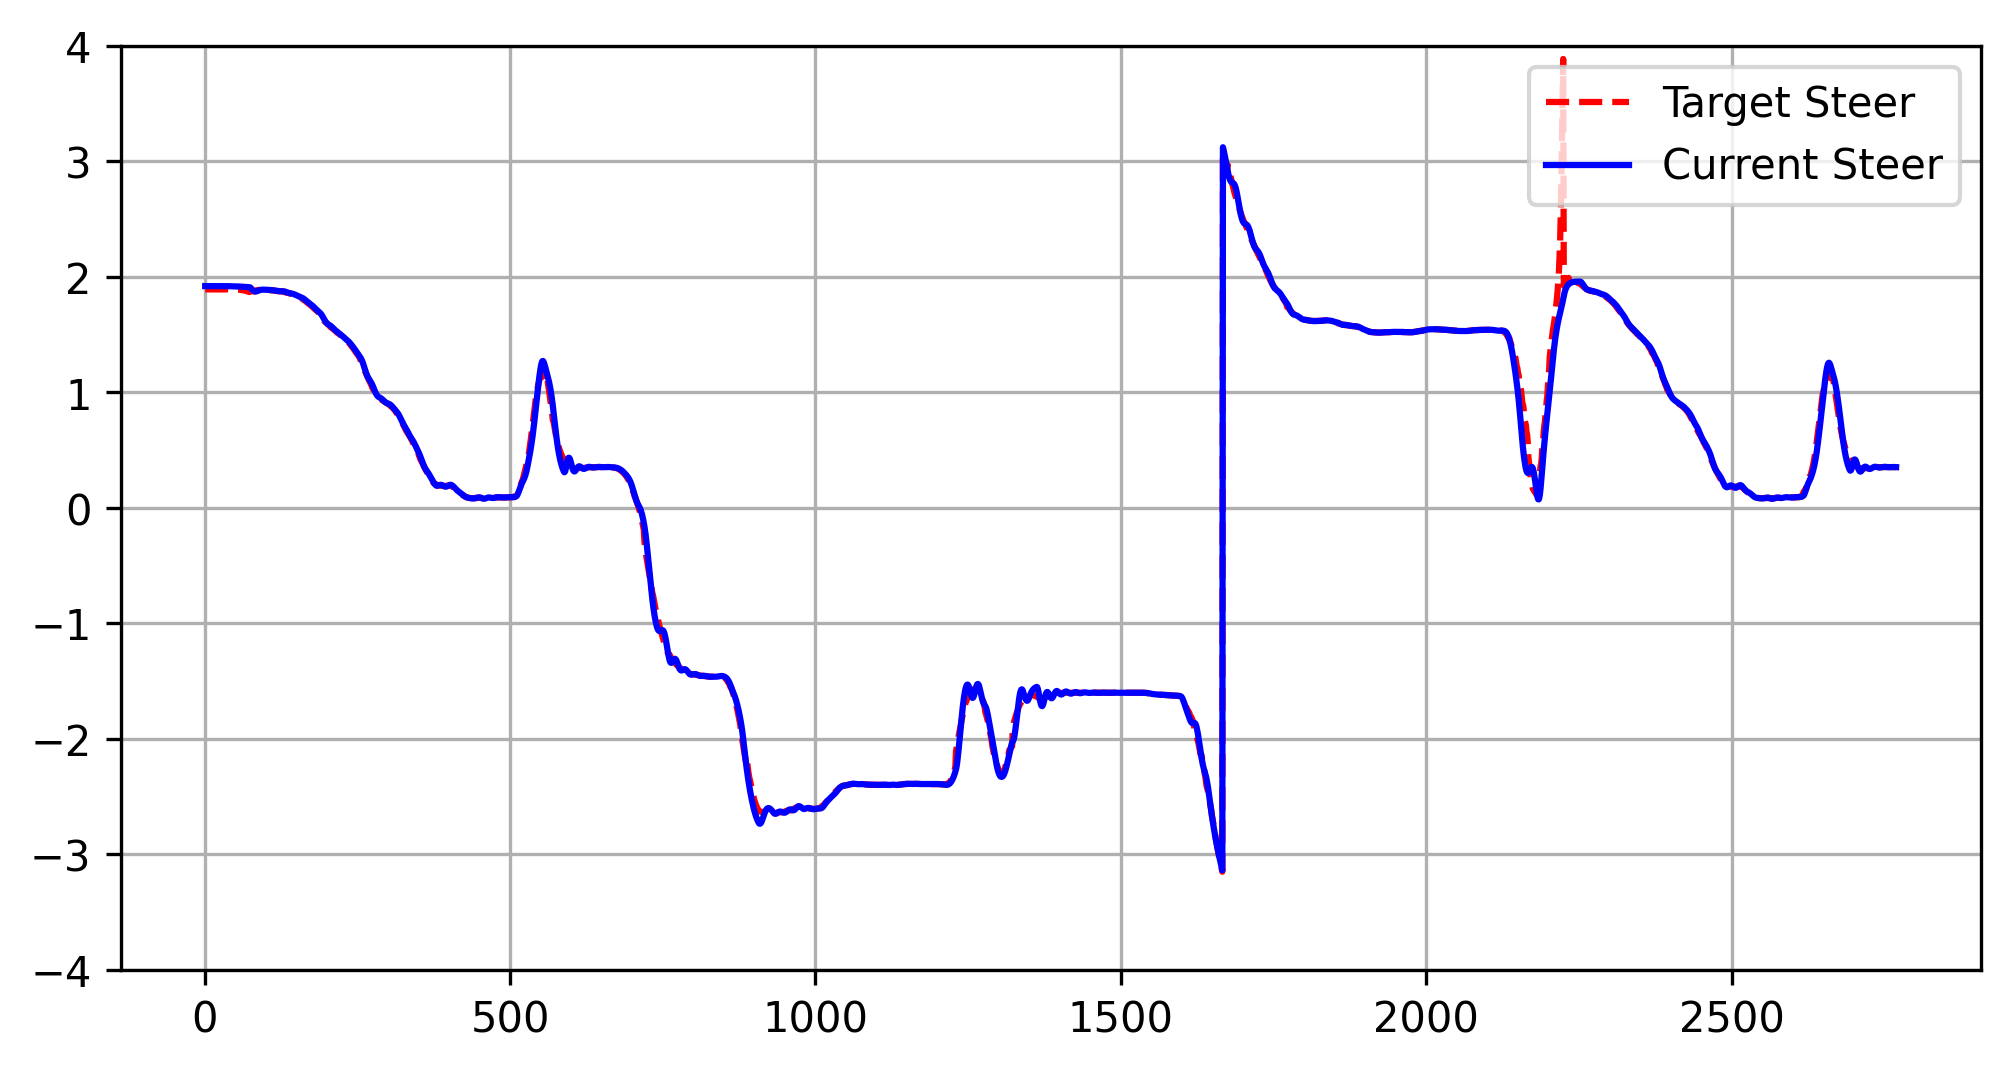
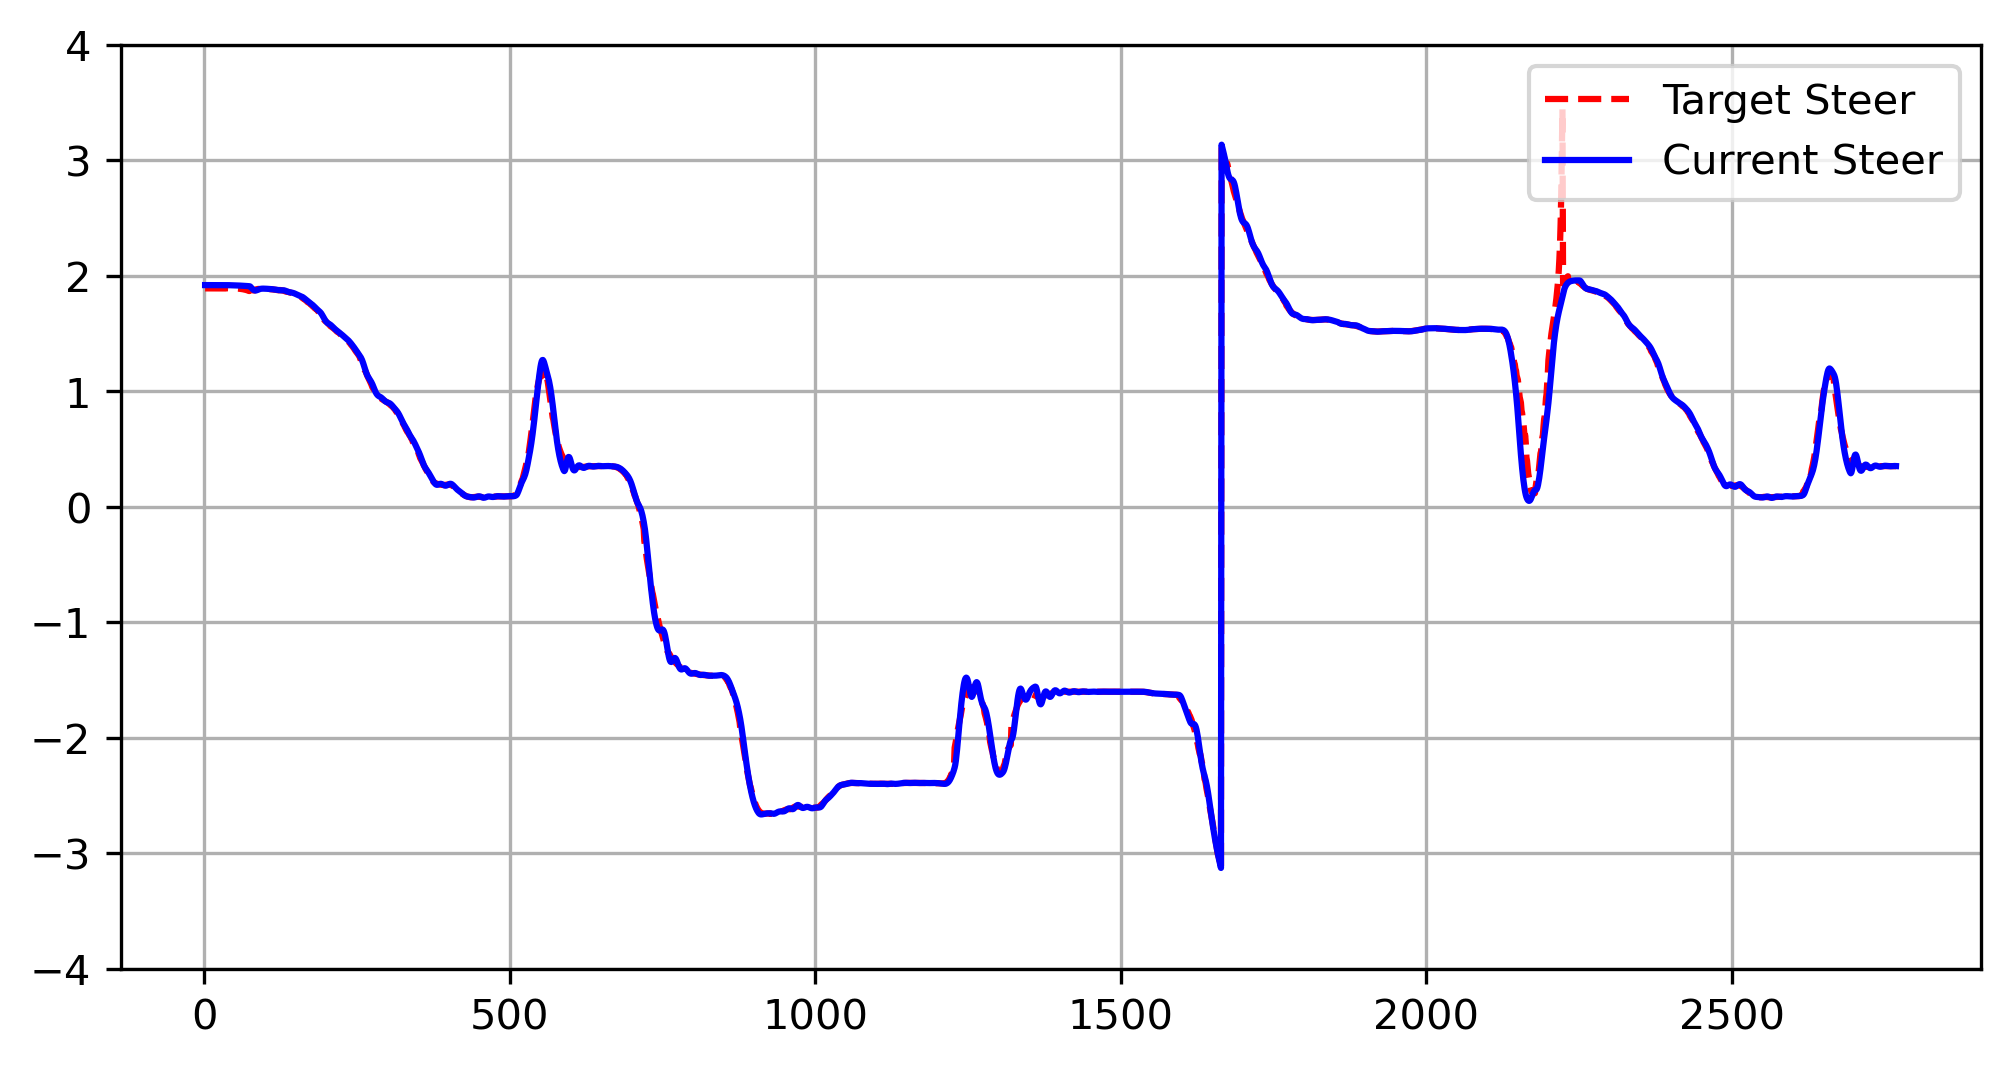
nearly perfect 800 corner

diff --git a/competition_code/util/Tuner.py b/competition_code/util/Tuner.py
@@ -16,7 +16,7 @@ class Tuner:
     WAYPOINT_TO_STEER_LOOKAHEAD = [
         (450, 490, 4), 
         (660, 700, 4), 
-        (745, 838, 4), 
+        (745, 880, 5), 
         (1300, 1325, 7), 
         (1325, 1400, 2), 
         (1400, 1425, 7), 
@@ -36,7 +36,8 @@ class Tuner:
         if (490 <= waypoint < 505): return steer * 0.75
         if (510 <= waypoint <= 520): return max(steer * 2.0, 0)
         if (1855 <= waypoint <= 1900): return max(steer * 3.0, 0)
-        if (830 <= waypoint < 860): return max(steer * 1.5, 0)
+        if (830 <= waypoint <= 845): return max(steer * 1.0, 0)
+        if (845 < waypoint < 860): return max(steer * 1.5, 0)
         if (860 <= waypoint <= 880): return steer * 0.4
         if (1425 <= waypoint <= 1450): return min(steer, 0)
         if (2550 <= waypoint <= 2600): return steer * 0.75
